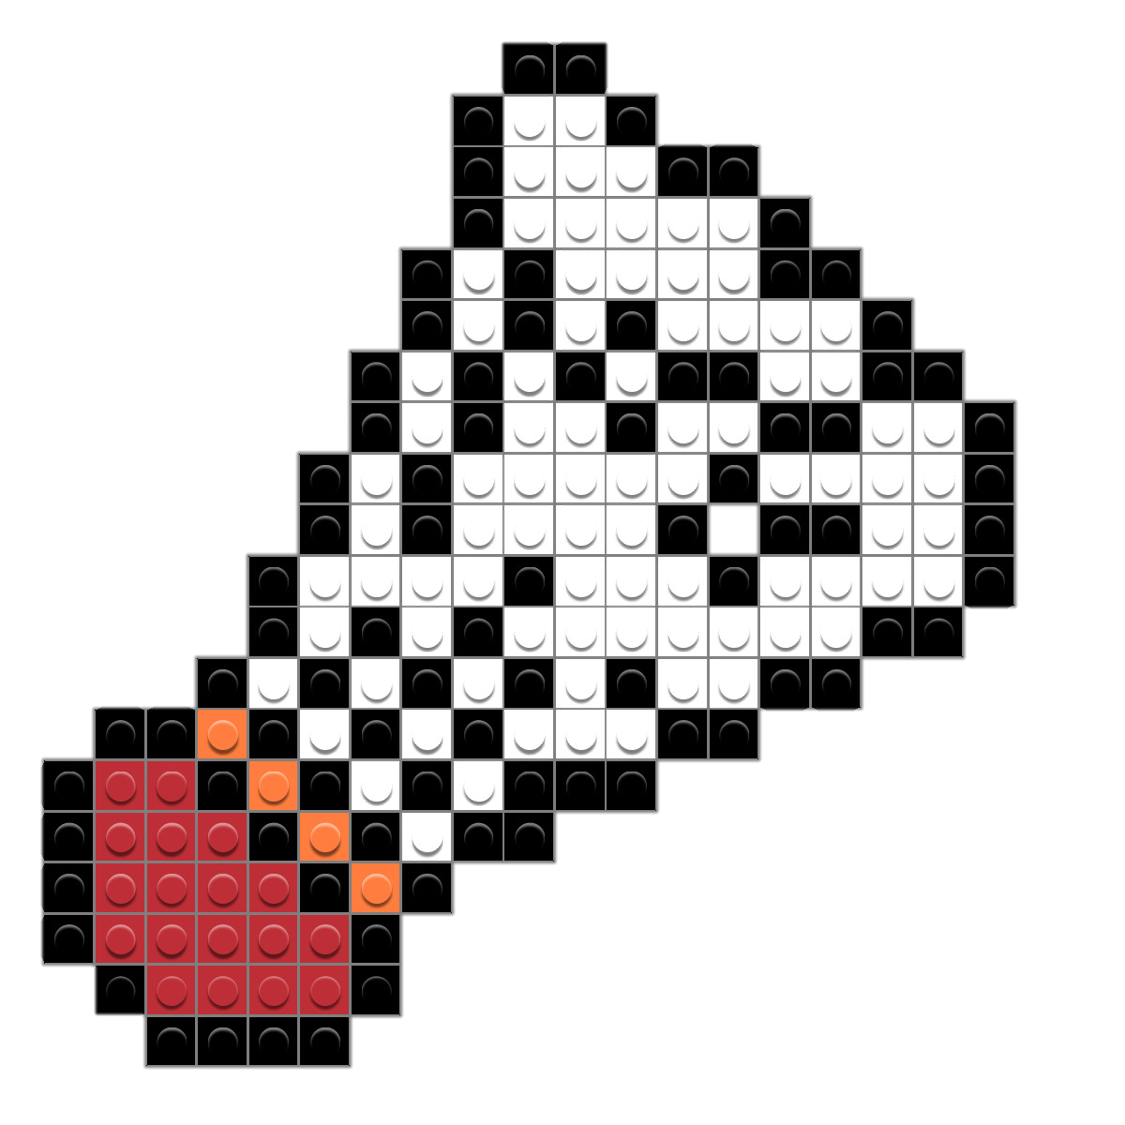
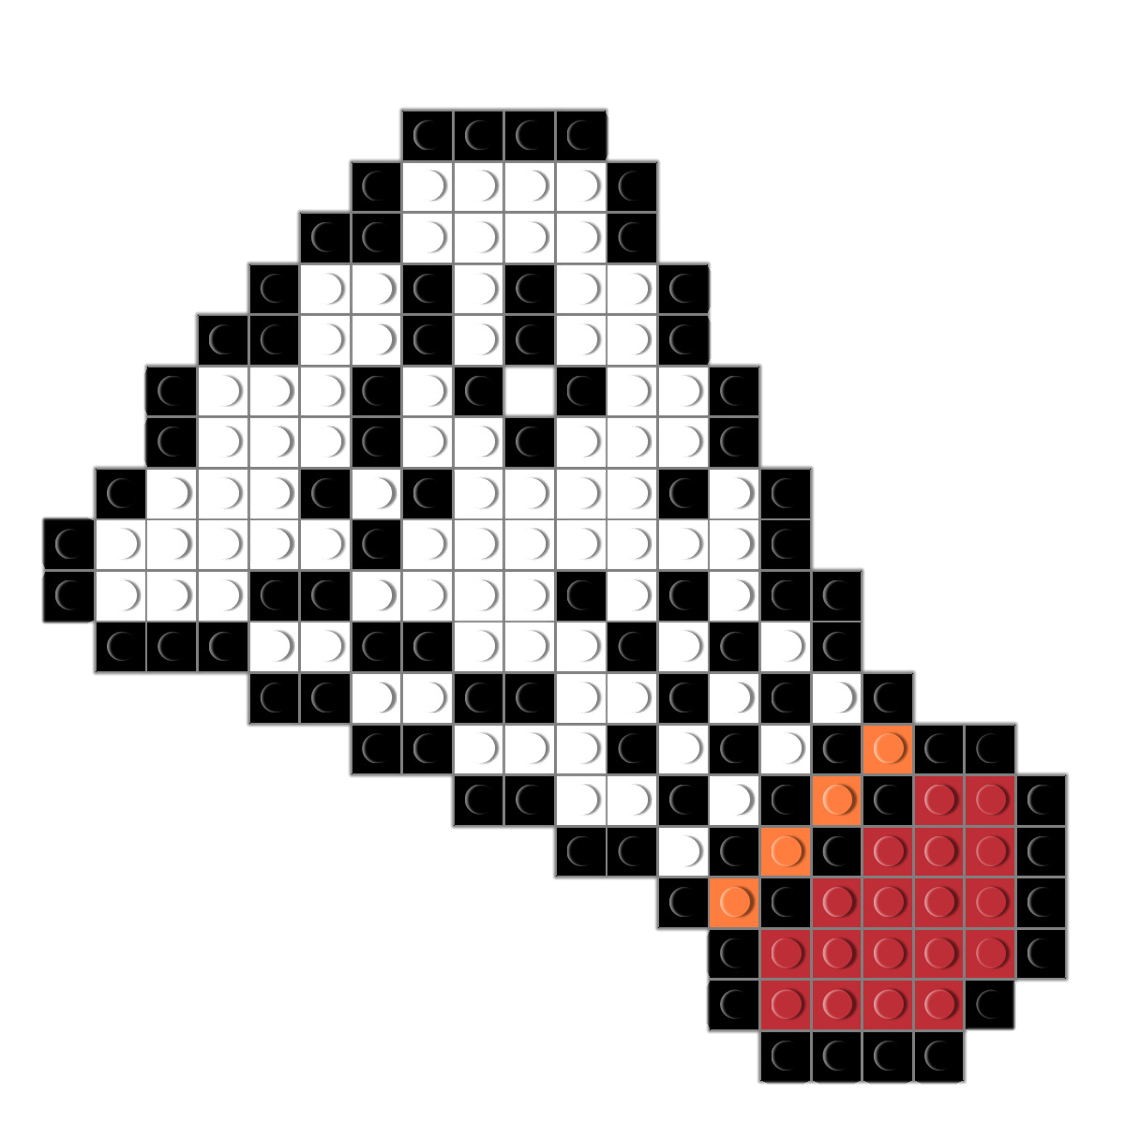
球頭會轉向了

diff --git a/badminton ver.2.py b/badminton ver.2.py
@@ -366,7 +366,10 @@ while True:
     get_net()
 
     # ball
-    get_ball('去背羽球.png')
+    if vx_ball > 0:
+        get_ball('去背羽球.png')
+    else:
+        get_ball('去背羽球2.png')
     vy_ball += grav
     x_ball += vx_ball
     y_ball += vy_ball
@@ -379,7 +382,7 @@ while True:
 # 殺球(角度、速度、gravity要調整) ok
 # 開始介面 ok
 # 網子高度要調整(背景圖) ok
-# 球要有兩個方向(球頭朝對面)
+# 球要有兩個方向(球頭朝對面) ok
 # 場地線調整
 # 重新開始按鈕(Optional:暫停鍵)
 # 音效
